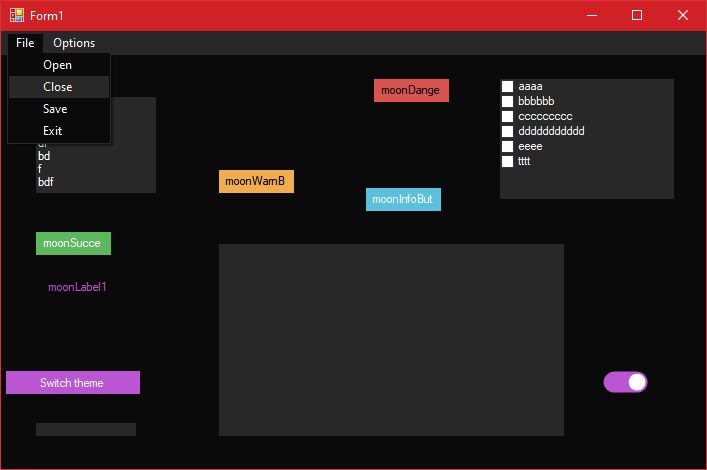
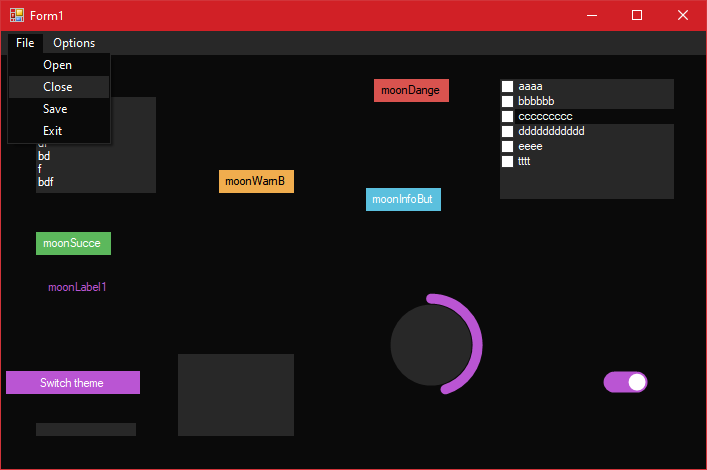
Upstream

Changed region(s): [[0.2489, 0.5064, 0.8091, 0.9532], [0.7157, 0.2085, 0.9646, 0.2681]]

diff --git a/Demo/DemoForm.Designer.cs b/Demo/DemoForm.Designer.cs
@@ -29,10 +29,10 @@ namespace Demo
         /// </summary>
         private void InitializeComponent()
         {
-            System.Windows.Forms.DataGridViewCellStyle dataGridViewCellStyle5 = new System.Windows.Forms.DataGridViewCellStyle();
-            System.Windows.Forms.DataGridViewCellStyle dataGridViewCellStyle6 = new System.Windows.Forms.DataGridViewCellStyle();
-            System.Windows.Forms.DataGridViewCellStyle dataGridViewCellStyle7 = new System.Windows.Forms.DataGridViewCellStyle();
-            System.Windows.Forms.DataGridViewCellStyle dataGridViewCellStyle8 = new System.Windows.Forms.DataGridViewCellStyle();
+            System.Windows.Forms.DataGridViewCellStyle dataGridViewCellStyle1 = new System.Windows.Forms.DataGridViewCellStyle();
+            System.Windows.Forms.DataGridViewCellStyle dataGridViewCellStyle2 = new System.Windows.Forms.DataGridViewCellStyle();
+            System.Windows.Forms.DataGridViewCellStyle dataGridViewCellStyle3 = new System.Windows.Forms.DataGridViewCellStyle();
+            System.Windows.Forms.DataGridViewCellStyle dataGridViewCellStyle4 = new System.Windows.Forms.DataGridViewCellStyle();
             this.moonButton1 = new MoonUI.MoonButton();
             this.moonTextField1 = new MoonUI.MoonTextField();
             this.moonInfoButton1 = new MoonUI.MoonInfoButton();
@@ -54,6 +54,7 @@ namespace Demo
             this.moonGrid1 = new MoonUI.MoonGrid();
             this.moonToggle1 = new MoonUI.MoonToggle();
             this.moonTip1 = new MoonUI.MoonTip();
+            this.moonCircularBar1 = new MoonUI.MoonCircularBar();
             this.moonMenu1.SuspendLayout();
             ((System.ComponentModel.ISupportInitialize)(this.moonGrid1)).BeginInit();
             this.SuspendLayout();
@@ -263,43 +264,43 @@ namespace Demo
             // 
             // moonGrid1
             // 
-            dataGridViewCellStyle5.BackColor = System.Drawing.Color.FromArgb(((int)(((byte)(60)))), ((int)(((byte)(60)))), ((int)(((byte)(60)))));
-            this.moonGrid1.AlternatingRowsDefaultCellStyle = dataGridViewCellStyle5;
+            dataGridViewCellStyle1.BackColor = System.Drawing.Color.FromArgb(((int)(((byte)(60)))), ((int)(((byte)(60)))), ((int)(((byte)(60)))));
+            this.moonGrid1.AlternatingRowsDefaultCellStyle = dataGridViewCellStyle1;
             this.moonGrid1.BackgroundColor = System.Drawing.Color.FromArgb(((int)(((byte)(40)))), ((int)(((byte)(40)))), ((int)(((byte)(40)))));
             this.moonGrid1.BorderStyle = System.Windows.Forms.BorderStyle.None;
             this.moonGrid1.CellBorderStyle = System.Windows.Forms.DataGridViewCellBorderStyle.None;
             this.moonGrid1.ColumnHeadersBorderStyle = System.Windows.Forms.DataGridViewHeaderBorderStyle.None;
-            dataGridViewCellStyle6.Alignment = System.Windows.Forms.DataGridViewContentAlignment.MiddleLeft;
-            dataGridViewCellStyle6.BackColor = System.Drawing.Color.MediumOrchid;
-            dataGridViewCellStyle6.Font = new System.Drawing.Font("Microsoft Sans Serif", 8.25F, System.Drawing.FontStyle.Regular, System.Drawing.GraphicsUnit.Point, ((byte)(0)));
-            dataGridViewCellStyle6.ForeColor = System.Drawing.Color.White;
-            dataGridViewCellStyle6.SelectionBackColor = System.Drawing.Color.FromArgb(((int)(((byte)(10)))), ((int)(((byte)(10)))), ((int)(((byte)(10)))));
-            dataGridViewCellStyle6.SelectionForeColor = System.Drawing.Color.White;
-            dataGridViewCellStyle6.WrapMode = System.Windows.Forms.DataGridViewTriState.True;
-            this.moonGrid1.ColumnHeadersDefaultCellStyle = dataGridViewCellStyle6;
+            dataGridViewCellStyle2.Alignment = System.Windows.Forms.DataGridViewContentAlignment.MiddleLeft;
+            dataGridViewCellStyle2.BackColor = System.Drawing.Color.MediumOrchid;
+            dataGridViewCellStyle2.Font = new System.Drawing.Font("Microsoft Sans Serif", 8.25F, System.Drawing.FontStyle.Regular, System.Drawing.GraphicsUnit.Point, ((byte)(0)));
+            dataGridViewCellStyle2.ForeColor = System.Drawing.Color.White;
+            dataGridViewCellStyle2.SelectionBackColor = System.Drawing.Color.FromArgb(((int)(((byte)(10)))), ((int)(((byte)(10)))), ((int)(((byte)(10)))));
+            dataGridViewCellStyle2.SelectionForeColor = System.Drawing.Color.White;
+            dataGridViewCellStyle2.WrapMode = System.Windows.Forms.DataGridViewTriState.True;
+            this.moonGrid1.ColumnHeadersDefaultCellStyle = dataGridViewCellStyle2;
             this.moonGrid1.ColumnHeadersHeightSizeMode = System.Windows.Forms.DataGridViewColumnHeadersHeightSizeMode.AutoSize;
-            dataGridViewCellStyle7.Alignment = System.Windows.Forms.DataGridViewContentAlignment.MiddleLeft;
-            dataGridViewCellStyle7.BackColor = System.Drawing.Color.FromArgb(((int)(((byte)(40)))), ((int)(((byte)(40)))), ((int)(((byte)(40)))));
-            dataGridViewCellStyle7.Font = new System.Drawing.Font("Microsoft Sans Serif", 8.25F, System.Drawing.FontStyle.Regular, System.Drawing.GraphicsUnit.Point, ((byte)(0)));
-            dataGridViewCellStyle7.ForeColor = System.Drawing.Color.White;
-            dataGridViewCellStyle7.SelectionBackColor = System.Drawing.Color.FromArgb(((int)(((byte)(10)))), ((int)(((byte)(10)))), ((int)(((byte)(10)))));
-            dataGridViewCellStyle7.SelectionForeColor = System.Drawing.Color.White;
-            dataGridViewCellStyle7.WrapMode = System.Windows.Forms.DataGridViewTriState.False;
-            this.moonGrid1.DefaultCellStyle = dataGridViewCellStyle7;
+            dataGridViewCellStyle3.Alignment = System.Windows.Forms.DataGridViewContentAlignment.MiddleLeft;
+            dataGridViewCellStyle3.BackColor = System.Drawing.Color.FromArgb(((int)(((byte)(40)))), ((int)(((byte)(40)))), ((int)(((byte)(40)))));
+            dataGridViewCellStyle3.Font = new System.Drawing.Font("Microsoft Sans Serif", 8.25F, System.Drawing.FontStyle.Regular, System.Drawing.GraphicsUnit.Point, ((byte)(0)));
+            dataGridViewCellStyle3.ForeColor = System.Drawing.Color.White;
+            dataGridViewCellStyle3.SelectionBackColor = System.Drawing.Color.FromArgb(((int)(((byte)(10)))), ((int)(((byte)(10)))), ((int)(((byte)(10)))));
+            dataGridViewCellStyle3.SelectionForeColor = System.Drawing.Color.White;
+            dataGridViewCellStyle3.WrapMode = System.Windows.Forms.DataGridViewTriState.False;
+            this.moonGrid1.DefaultCellStyle = dataGridViewCellStyle3;
             this.moonGrid1.EnableHeadersVisualStyles = false;
             this.moonGrid1.GridColor = System.Drawing.Color.FromArgb(((int)(((byte)(40)))), ((int)(((byte)(40)))), ((int)(((byte)(40)))));
-            this.moonGrid1.Location = new System.Drawing.Point(218, 213);
+            this.moonGrid1.Location = new System.Drawing.Point(177, 323);
             this.moonGrid1.Name = "moonGrid1";
             this.moonGrid1.RowHeadersBorderStyle = System.Windows.Forms.DataGridViewHeaderBorderStyle.None;
-            dataGridViewCellStyle8.Alignment = System.Windows.Forms.DataGridViewContentAlignment.MiddleLeft;
-            dataGridViewCellStyle8.BackColor = System.Drawing.Color.FromArgb(((int)(((byte)(40)))), ((int)(((byte)(40)))), ((int)(((byte)(40)))));
-            dataGridViewCellStyle8.Font = new System.Drawing.Font("Microsoft Sans Serif", 8.25F, System.Drawing.FontStyle.Regular, System.Drawing.GraphicsUnit.Point, ((byte)(0)));
-            dataGridViewCellStyle8.ForeColor = System.Drawing.Color.White;
-            dataGridViewCellStyle8.SelectionBackColor = System.Drawing.Color.FromArgb(((int)(((byte)(10)))), ((int)(((byte)(10)))), ((int)(((byte)(10)))));
-            dataGridViewCellStyle8.SelectionForeColor = System.Drawing.Color.White;
-            dataGridViewCellStyle8.WrapMode = System.Windows.Forms.DataGridViewTriState.True;
-            this.moonGrid1.RowHeadersDefaultCellStyle = dataGridViewCellStyle8;
-            this.moonGrid1.Size = new System.Drawing.Size(345, 192);
+            dataGridViewCellStyle4.Alignment = System.Windows.Forms.DataGridViewContentAlignment.MiddleLeft;
+            dataGridViewCellStyle4.BackColor = System.Drawing.Color.FromArgb(((int)(((byte)(40)))), ((int)(((byte)(40)))), ((int)(((byte)(40)))));
+            dataGridViewCellStyle4.Font = new System.Drawing.Font("Microsoft Sans Serif", 8.25F, System.Drawing.FontStyle.Regular, System.Drawing.GraphicsUnit.Point, ((byte)(0)));
+            dataGridViewCellStyle4.ForeColor = System.Drawing.Color.White;
+            dataGridViewCellStyle4.SelectionBackColor = System.Drawing.Color.FromArgb(((int)(((byte)(10)))), ((int)(((byte)(10)))), ((int)(((byte)(10)))));
+            dataGridViewCellStyle4.SelectionForeColor = System.Drawing.Color.White;
+            dataGridViewCellStyle4.WrapMode = System.Windows.Forms.DataGridViewTriState.True;
+            this.moonGrid1.RowHeadersDefaultCellStyle = dataGridViewCellStyle4;
+            this.moonGrid1.Size = new System.Drawing.Size(116, 82);
             this.moonGrid1.TabIndex = 16;
             // 
             // moonToggle1
@@ -324,11 +325,24 @@ namespace Demo
             this.moonTip1.UseAnimation = false;
             this.moonTip1.UseFading = false;
             // 
+            // moonCircularBar1
+            // 
+            this.moonCircularBar1.Location = new System.Drawing.Point(365, 249);
+            this.moonCircularBar1.Maximum = ((long)(100));
+            this.moonCircularBar1.MinimumSize = new System.Drawing.Size(75, 75);
+            this.moonCircularBar1.Name = "moonCircularBar1";
+            this.moonCircularBar1.ProgressShape = MoonUI.MoonCircularBar._ProgressShape.Round;
+            this.moonCircularBar1.Size = new System.Drawing.Size(130, 130);
+            this.moonCircularBar1.TabIndex = 18;
+            this.moonCircularBar1.Text = "moonCircularBar1";
+            this.moonCircularBar1.Value = ((long)(45));
+            // 
             // DemoForm
             // 
             this.AutoScaleDimensions = new System.Drawing.SizeF(6F, 13F);
             this.AutoScaleMode = System.Windows.Forms.AutoScaleMode.Font;
             this.ClientSize = new System.Drawing.Size(705, 438);
+            this.Controls.Add(this.moonCircularBar1);
             this.Controls.Add(this.moonToggle1);
             this.Controls.Add(this.moonGrid1);
             this.Controls.Add(this.moonList1);
@@ -375,6 +389,7 @@ namespace Demo
         private MoonUI.MoonGrid moonGrid1;
         private MoonUI.MoonToggle moonToggle1;
         private MoonUI.MoonTip moonTip1;
+        private MoonUI.MoonCircularBar moonCircularBar1;
     }
 }
 

diff --git a/MoonUI/MoonManager.cs b/MoonUI/MoonManager.cs
@@ -117,54 +117,46 @@ namespace MoonUI
                     tmp.LinkColor = MoonManager.AccentColor;
                     tmp.VisitedLinkColor = MoonManager.SecondaryColor;
                     tmp.ActiveLinkColor = MoonManager.SecondaryColor;
-                    tmp.Invalidate();
                 }
 
                 if (x is MoonMenu || x is ContextMenuStrip || x is MoonSelect || x is MoonTextField || x is MoonList)
                 {
                     tmp.BackColor = MoonManager.BackAccentColor;
                     tmp.ForeColor = MoonManager.TextColor;
-                    tmp.Invalidate();
                 }
 
                 if (x is MoonGrid)
                 {
                     tmp.FixColors();
-                    tmp.Invalidate();
                 }
 
                 if (x is MoonTree)
                 {
                     tmp.ForeColor = MoonManager.TextColor;
                     tmp.BackColor = MoonManager.BackAccentColor;
-                    tmp.Invalidate();
                 }
 
                 if (x is TabPage)
                 {
                     tmp.BackColor = MoonManager.BackColor;
                     tmp.ForeColor = MoonManager.TextColor;
-                    tmp.Invalidate();
                 }
 
                 if (x is MoonLinearBar)
                 {
                     tmp.PaintedBack = false;
                     tmp.StopPainting = false;
-                    tmp.Invalidate();
                 }
 
                 if (x is MoonLabel)
                 {
                     tmp.ForeColor = MoonManager.AccentColor;
-                    tmp.Invalidate();
                 }
 
                 if (x is MoonCheckList)
                 {
                     tmp.ForeColor = MoonManager.TextColor;
                     tmp.BackColor = MoonManager.BackAccentColor;
-                    tmp.Invalidate();
                 }
 
                 if (x is MoonCheck || x is MoonRadio)
@@ -179,7 +171,6 @@ namespace MoonUI
                         tmp.Font = new Font(tmp.Font, FontStyle.Regular);
                         tmp.ForeColor = MoonManager.TextColor;
                     }
-                    tmp.Invalidate();
                 }
 
                 if (x is MoonButton)
@@ -188,8 +179,9 @@ namespace MoonUI
                     tmp.FlatAppearance.BorderSize = 0;
                     tmp.FlatAppearance.MouseOverBackColor = SecondaryColor;
                     tmp.FlatAppearance.MouseDownBackColor = SecondaryColor;
-                    tmp.Invalidate();
                 }
+
+                tmp.Invalidate();
             }
         }
 

diff --git a/Demo/DemoForm.cs b/Demo/DemoForm.cs
@@ -9,6 +9,7 @@ namespace Demo
         public DemoForm()
         {
             InitializeComponent();
+            MoonManager.SET_THEME(THEME.DARK, THEME_ACCENT.ZERG, this);
         }
 
         private void Form1_Load(object sender, EventArgs e)
